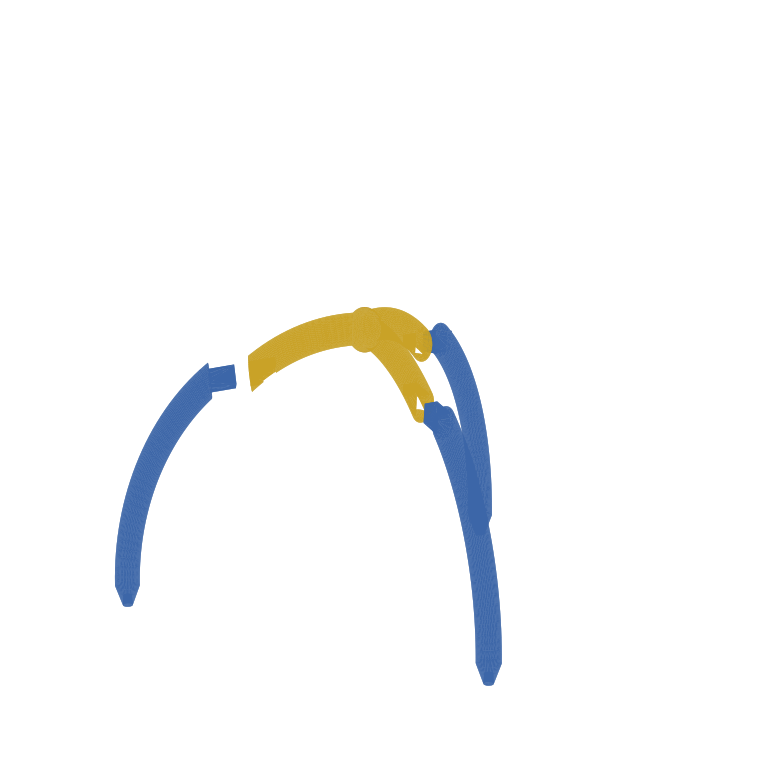
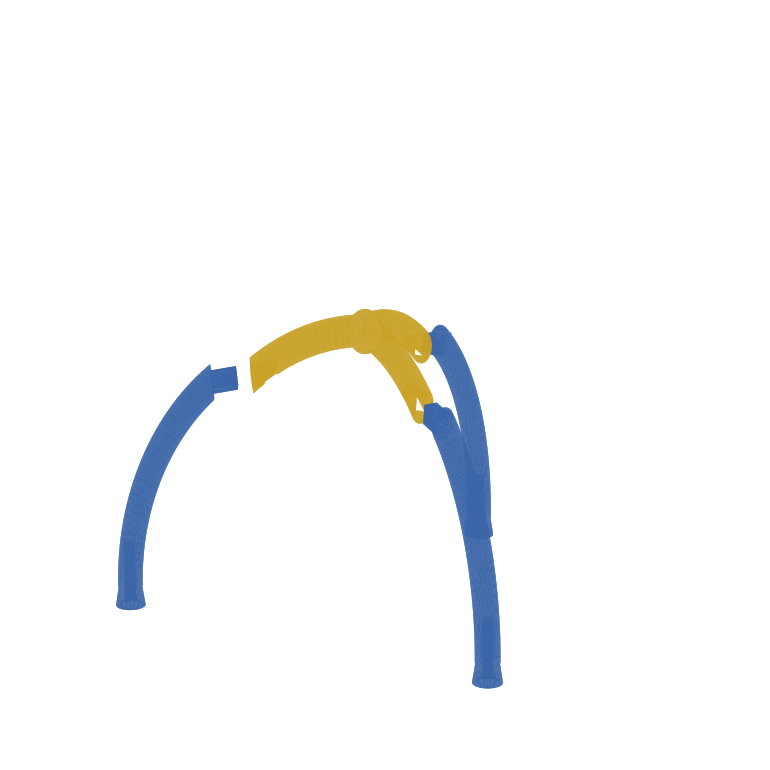
Giant piece: magnetless bolt feet (domed button-head, seat + self-tap pilot)
Per the big-model plan in the newly uploaded cost model v5 ("domed button-head
bolts seated head-down in each foot, 3 per piece" — mass low at the outer
points, rounded steel sliding contact, no magnets):

- Each foot gains a printed boss (frustum Ø26->Ø14 x 30) around the Ø8.4 scaled
  tip: a recessed seat the head shoulder pulls up against with the dome cap
  protruding 4.0 mm below the plastic (the piece rides on three steel domes),
  and a snug pilot bore the bolt self-taps into. Weight rests on the seat; the
  thread only retains the bolt when the piece is lifted.
- Default M10 x 40 button head (~90 g steel per piece); BOLT='M8' preset for the
  lighter set. All parametric in tau_giant.py.
- Parts re-verified watertight; leg still fits the Ender 3 (26 x 110 x 169 mm).
  The 2.2 mm assembly-bounds deviation vs the bare scaled original is the boss
  itself (wider than the naked ankle) — intended.

README updated with the bolt spec and fitting instructions.

Claude-Session: https://claude.ai/code/session_01RYDiE85c75kUz9ZV5WRexd

diff --git a/physical/tau_giant.py b/physical/tau_giant.py
@@ -38,6 +38,23 @@ BUMP_R     = 2.2                  # retention dome sphere radius
 BUMP_PROUD = 0.45                 # how far the dome stands proud of the tenon top
 DIMPLE_D   = 0.25                 # dimple depth (< BUMP_PROUD -> genuine interference click)
 
+# Foot bolts (cost model v5: "domed button-head bolts seated head-down in each foot, 3 per piece"
+# — mass low at the outer points, a rounded steel sliding contact, no magnets). The scaled foot
+# tip is only Ø8.4 so each foot gets a printed BOSS around it: a frustum with a recessed seat the
+# head shoulder pulls up against (dome cap protruding below to be the glide contact) and a snug
+# pilot bore the bolt self-taps into (the piece's weight rests on the seat; the thread only stops
+# the bolt dropping out when the piece is lifted). Defaults = M10 x 40 button head (~30 g each,
+# ~90 g of steel per piece, Bunnings-common); switch BOLT='M8' for the lighter set.
+BOLT = 'M10'
+BOLTS = {                        # head_d, head_h, pilot_d (self-tap in PLA/PETG), min length
+    'M8':  dict(head_d=14.0, head_h=4.4, pilot_d=7.2, length=30),
+    'M10': dict(head_d=18.0, head_h=5.5, pilot_d=8.9, length=40),
+}[BOLT]
+BOSS_BOT_D = BOLTS['head_d'] + 8.0   # boss frustum: bottom Ø (seat + 4 mm wall)
+BOSS_TOP_D = 14.0                    # tapers to hug the ankle
+BOSS_H     = 30.0
+SEAT_DEPTH = 1.5                     # head shoulder recess -> dome cap protrudes head_h-SEAT_DEPTH
+
 def boolean(kind, meshes):
     fn = {'union': trimesh.boolean.union, 'diff': trimesh.boolean.difference,
           'inter': trimesh.boolean.intersection}[kind]
@@ -108,8 +125,31 @@ def bump_solid(dimple=False):
 
 rot120 = trimesh.transformations.rotation_matrix(math.radians(120), [0,0,1])
 
+# ----------------------------------------------------------------------- foot bolt boss
+# frustum hugging the ankle, seat recess for the button head's shoulder (dome cap protrudes below
+# as the glide contact), snug pilot bore the bolt self-taps into.
+pad_c = leg_raw.vertices[leg_raw.vertices[:,2] < 2].mean(axis=0); pad_c[2] = 0.0
+def frustum(r_bot, r_top, h, sections=64):
+    cyl = trimesh.creation.cylinder(radius=r_bot, height=h, sections=sections)
+    v = cyl.vertices.copy()
+    top = v[:,2] > 0
+    v[top,0] *= r_top/r_bot; v[top,1] *= r_top/r_bot
+    cyl.vertices = v
+    return cyl
+boss = frustum(BOSS_BOT_D/2, BOSS_TOP_D/2, BOSS_H)
+boss.apply_translation(pad_c + [0,0,BOSS_H/2])
+seat = trimesh.creation.cylinder(radius=(BOLTS['head_d']+0.6)/2, height=SEAT_DEPTH+4, sections=64)
+seat.apply_translation(pad_c + [0,0,SEAT_DEPTH/2 - 2])          # from below z=0 up to SEAT_DEPTH
+pilot_h = SEAT_DEPTH + BOLTS['length'] + 3
+pilot = trimesh.creation.cylinder(radius=BOLTS['pilot_d']/2, height=pilot_h, sections=48)
+pilot.apply_translation(pad_c + [0,0,pilot_h/2 - 1])            # blind bore up the ankle
+print('foot: boss Ø%.0f->Ø%.0f x %.0f at (%.1f, %.1f); %s x %d button head, dome protrudes %.1f mm'
+      % (BOSS_BOT_D, BOSS_TOP_D, BOSS_H, pad_c[0], pad_c[1], BOLT, BOLTS['length'],
+         BOLTS['head_h'] - SEAT_DEPTH))
+
 # ----------------------------------------------------------------------- build parts
-leg = boolean('union', [leg_raw, tenon_solid(), bump_solid()])
+leg = boolean('union', [leg_raw, boss, tenon_solid(), bump_solid()])
+leg = boolean('diff',  [leg, seat, pilot])
 
 cuts = []
 for k in range(3):

diff --git a/physical/out_giant/README_giant.md b/physical/out_giant/README_giant.md
@@ -3,8 +3,11 @@
 The real piece (`tripod smoove 2021.stl`, the Ø266.7 mm-board tripod) scaled by **exactly 3.75×**
 (1 game unit: 2 mm → 7.5 mm, so a Ø1000 mm board), then split into a hub and three identical legs
 that click together. Generated by `../tau_giant.py` — regenerate any time with
-`python3 tau_giant.py`; every part is CSG-built and verified watertight, and the reassembled
-parts match the original silhouette to 0.00 mm.
+`python3 tau_giant.py`; every part is CSG-built and verified watertight.
+
+**No magnets.** Per the big-model plan (cost model v5): each foot takes a **domed button-head
+bolt seated head-down** — mass low at the three outer points so the piece is bottom-heavy, and
+the polished steel dome is the sliding contact. 3 bolts per piece, 6 per set.
 
 Assembled piece: **322 × 282 × 202 mm**, foot circle radius 173.2 mm — matches the digital
 `footR` (23.095 u × 7.5 mm) on a 1 m board.
@@ -18,6 +21,21 @@ Assembled piece: **322 × 282 × 202 mm**, foot circle radius 173.2 mm — match
 | `tau_giant_coupon_socket.stl` + `tau_giant_coupon_tenon.stl` | 1 pair first | small | minutes to print |
 
 Two pieces per game (blue + red filament): 6 legs + 2 hubs total.
+
+## Foot bolts
+
+The scaled foot tip is only Ø8.4, so each foot carries a printed **boss** (frustum Ø26→Ø14 ×
+30 mm) with:
+- a recessed **seat** the head's shoulder pulls up against — the dome cap protrudes **4.0 mm**
+  below the plastic, so the piece rides on three steel domes and the print never touches the board;
+- a snug **pilot bore** (Ø8.9 for M10 coarse) the bolt **self-taps** into. Drive it with the hex
+  key until the shoulder seats. The piece's weight rests on the seat; the thread only keeps the
+  bolt from dropping out when the piece is lifted.
+
+Default hardware: **M10 × 40 button head** (≈30 g each → ~90 g of steel per piece, low and at the
+rim — exactly where anti-tip mass wants to be). `BOLT='M8'` in `tau_giant.py` regenerates the
+lighter variant (Ø7.2 pilot, M8 × 30). Galvanised/zinc domes are smooth enough; stainless is
+smoother. If a bolt ever strips its bore, a drop of epoxy in the pilot re-sets it.
 
 ## The joint
 